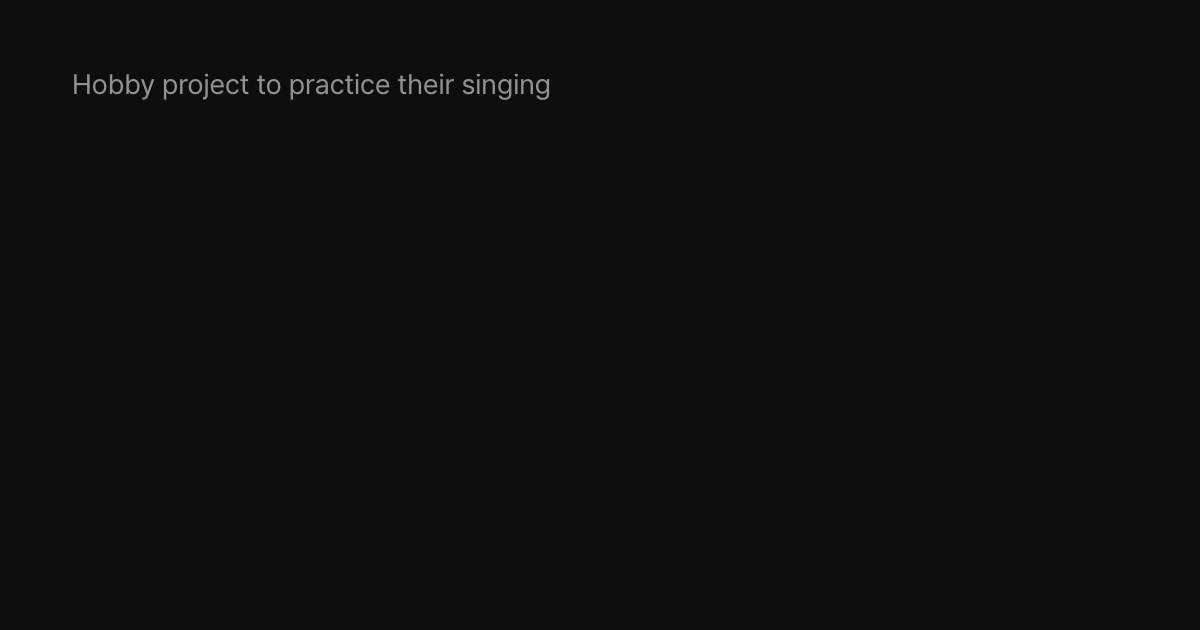
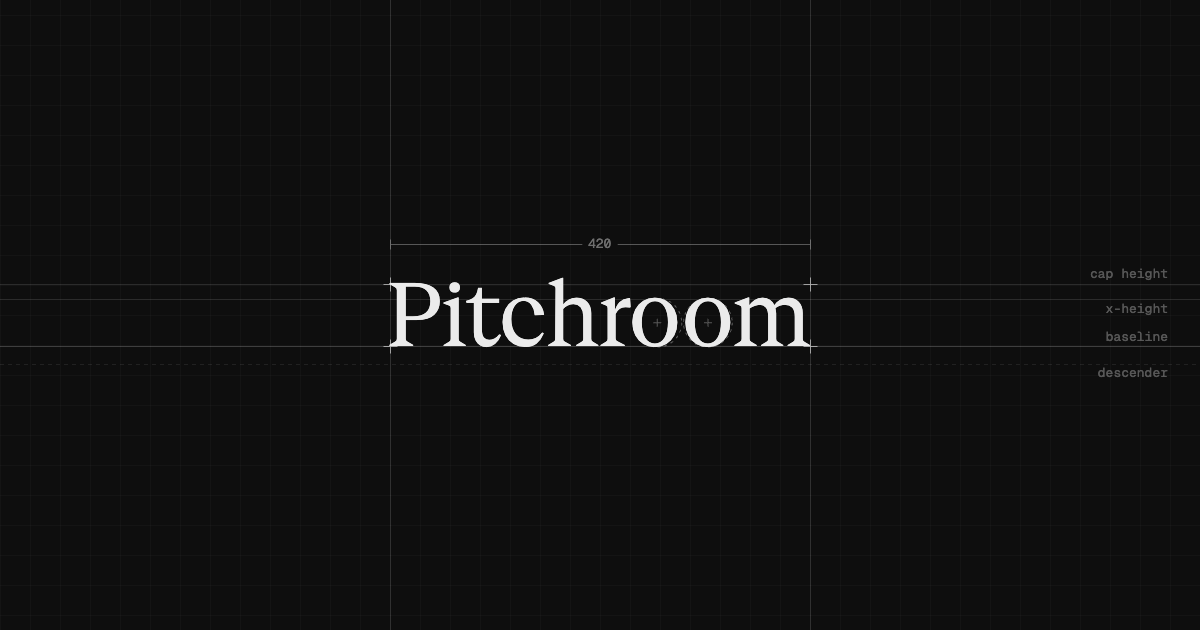
Download page: the link preview the name centred again, drawn up like a blueprint (its type's lines, edges and width, the o's circles), so it reads as a work in progress (was a line at its top left)

diff --git a/site/index.html b/site/index.html
@@ -6,7 +6,7 @@
 <title>Pitchroom</title>
 <meta name="description" content="Download Pitchroom for macOS or Windows.">
 <meta name="theme-color" content="#141414">
-<!-- the link's preview in chats and posts: a line at its top left on the page's dark, 1200 × 630 (social sites want a full address) -->
+<!-- the link's preview in chats and posts: the name centred on the page's dark, drawn up like a blueprint (its type's lines, edges, the o's circles), 1200 × 630 (social sites want a full address) -->
 <meta property="og:type" content="website">
 <meta property="og:url" content="https://pitchroom.dev/">
 <meta property="og:title" content="Pitchroom">
@@ -14,7 +14,7 @@
 <meta property="og:image" content="https://pitchroom.dev/img/og.png">
 <meta property="og:image:width" content="1200">
 <meta property="og:image:height" content="630">
-<meta property="og:image:alt" content="Hobby project to practice their singing">
+<meta property="og:image:alt" content="Pitchroom">
 <meta name="twitter:card" content="summary_large_image">
 <link rel="icon" href="favicon.svg" type="image/svg+xml">
 <link rel="stylesheet" href="https://cdn.jsdelivr.net/gh/orioncactus/pretendard@v1.3.9/dist/web/static/pretendard.min.css">

diff --git a/docs/agents/site.md b/docs/agents/site.md
@@ -1,8 +1,8 @@
 # The download page (pitchroom.dev)
 
 `site/index.html` is one static file, plus `site/favicon.svg`, `site/img/installer-icon.png` and `site/img/og.png`
-(the link preview: one 28 px line at its top left on the page's dark, 1200 × 630, named in the `og:` tags). No build
-step. Fonts (Pretendard, Geist Serif) load from cdn.jsdelivr.net.
+(the link preview: the name, 88 px Geist Serif, centred on the page's dark with blueprint lines round it, 1200 × 630,
+named in the `og:` tags). No build step. Fonts (Pretendard, Geist Serif) load from cdn.jsdelivr.net.
 
 ## What it does
 
